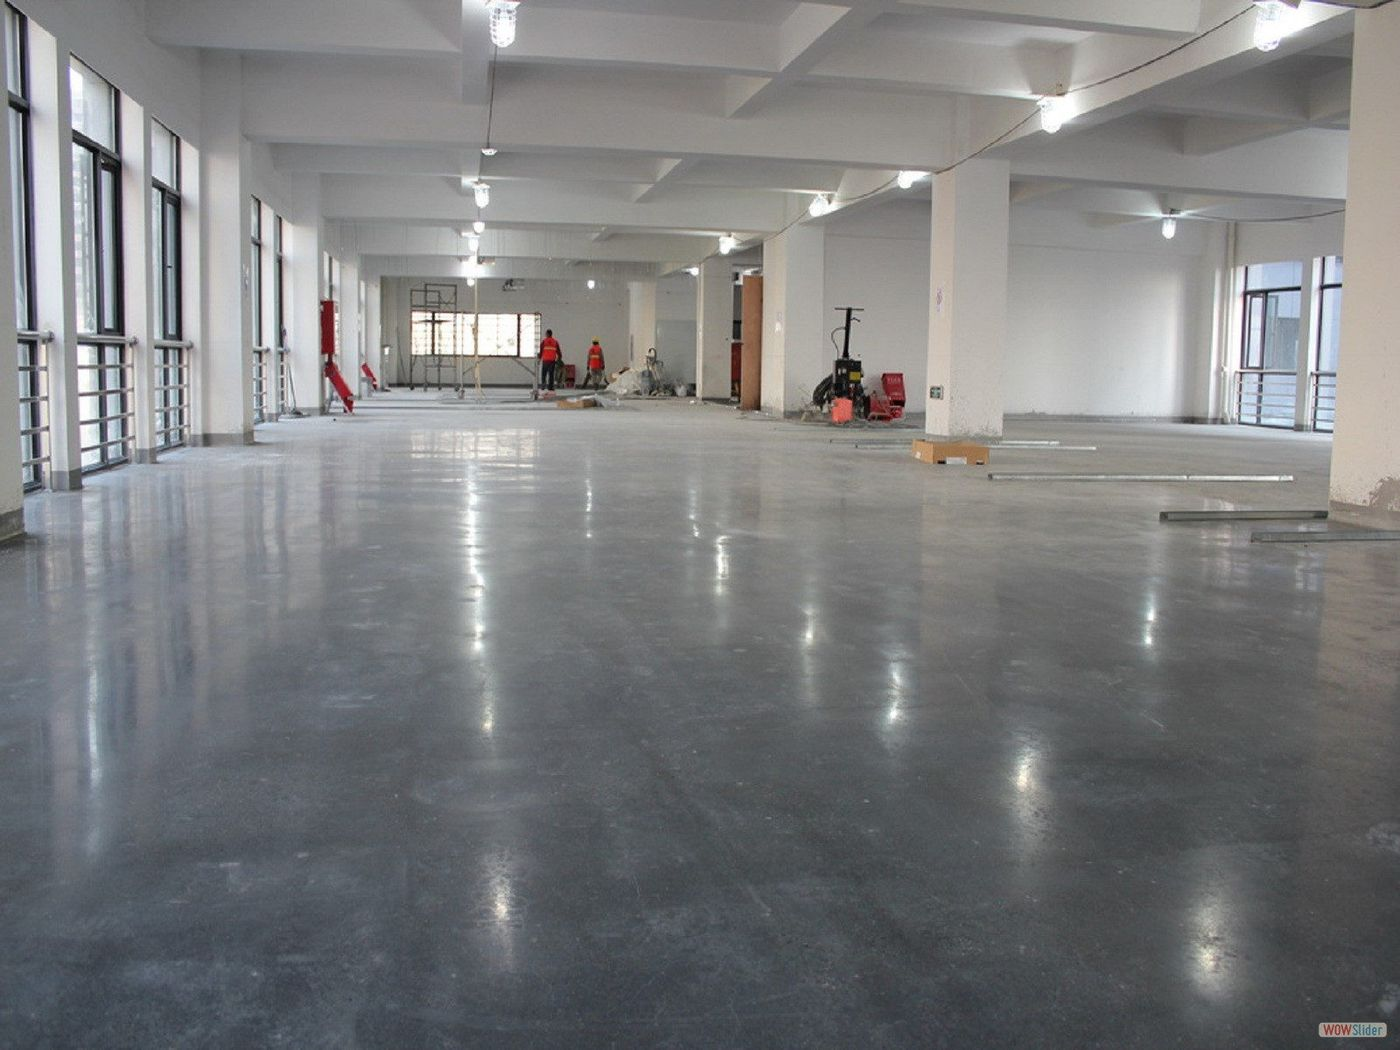
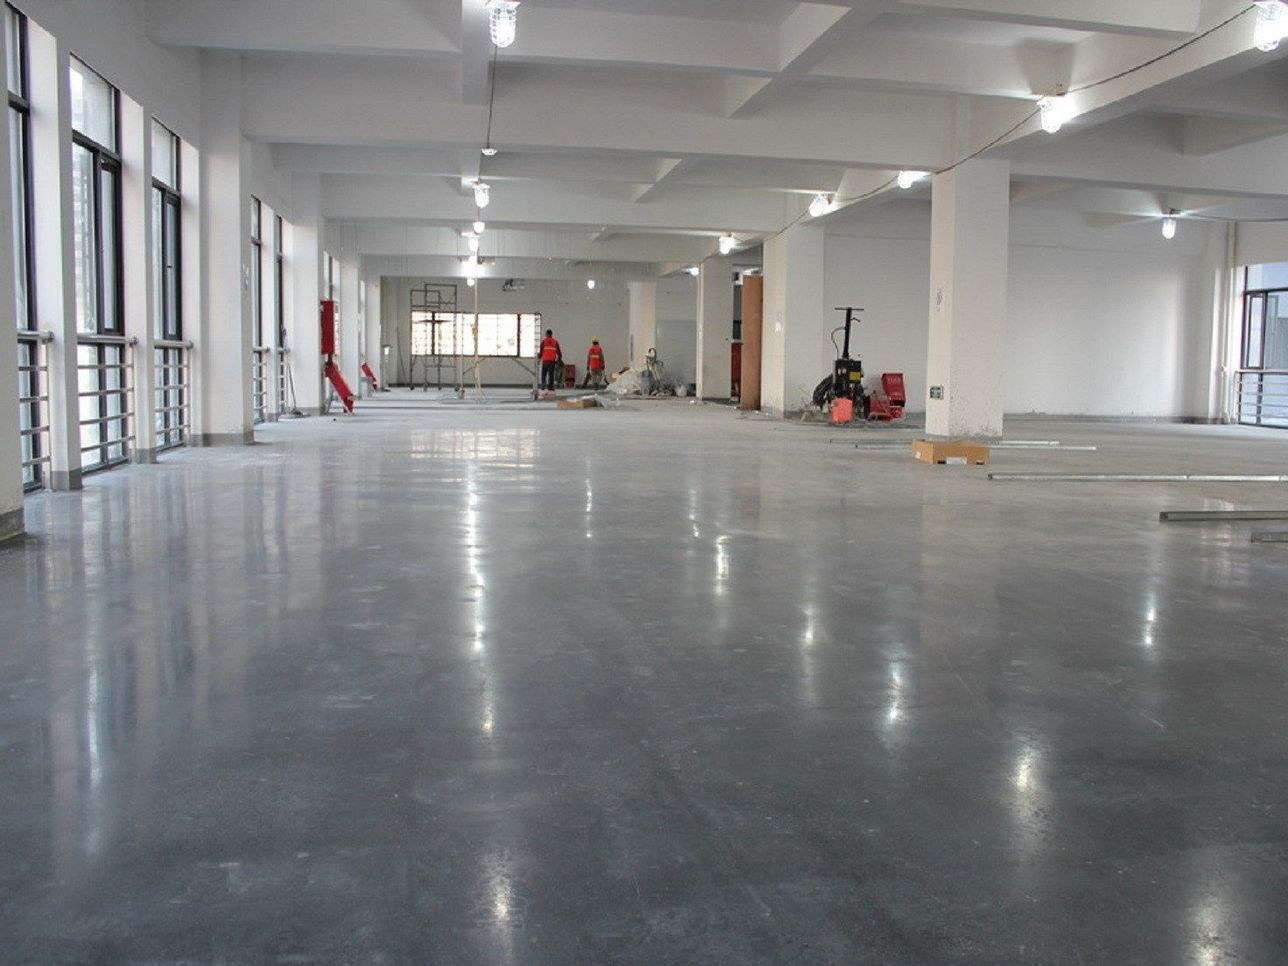
Nave: 17 arreglos de maquetacion tras la revision visual con scroll a 3 anchos
- pie de foto de la linea de hormigon anclado a su foto (relative, no static)
- tarjetas de sectores con los titulos a la misma altura; listas dobles en rejilla
- fila Resultado alineada con las fases; nota de sellos centrada
- barra de valores que ya no cuelga al partir linea; direccion del pie en bloque
- telefonos y fax al mismo paso de linea; nota de obligatorios al ancho libre
- movil: mas aire entre lineas apiladas, sin rayas duplicadas, botones de portada
  a todo el ancho, pie de la foto a sangre completo, titulos sin palabra huerfana
- img/nave-columnas.jpg recortada: llevaba una marca de agua ajena en la esquina

diff --git a/nave/index.html b/nave/index.html
@@ -250,6 +250,7 @@
   .hero .kicker { color: var(--nieve); }
   .hero .lead { margin-top: 1.4rem; color: var(--nieve); max-width: 52ch; }
   .hero-acciones { display: flex; flex-wrap: wrap; gap: .8rem; margin-top: 2rem; }
+  @media (max-width: 560px) { .hero-acciones .btn { flex: 1 1 auto; justify-content: center; } }
   .hero-nota { border-left: 3px solid var(--naranja); padding: .3rem 0 .3rem 1.2rem; max-width: 34ch; color: var(--nieve); }
   .hero-nota p { font-size: 1.05rem; line-height: 1.45; font-weight: 500; }
   .hero-nota .mono { color: var(--nieve); display: block; margin-top: .8rem; }
@@ -328,6 +329,7 @@
 
   /* ---------- Servicios ---------- */
   .svc-lista { display: grid; gap: clamp(3rem, 7vw, 6rem); }
+  @media (max-width: 959px) { .svc-lista { gap: 5rem; } } /* apilado: la foto va antes del rótulo, hace falta más aire entre líneas */
   .svc { display: grid; gap: 1.8rem; align-items: start; }
   .svc-media { margin: 0; position: relative; }
   .svc-media img { width: 100%; aspect-ratio: 16 / 10; object-fit: cover; }
@@ -338,7 +340,7 @@
     .svc:nth-child(even) { grid-template-columns: minmax(0, 5fr) minmax(0, 7fr); }
     .svc:nth-child(even) .svc-media { order: 2; }
     .svc-media { position: sticky; top: 100px; }
-    #hormigon .svc-media { position: static; } /* su fila de normas ocupa las dos columnas: la foto pegajosa se deslizaba encima */
+    #hormigon .svc-media { position: relative; top: auto; } /* su fila de normas ocupa las dos columnas: la foto pegajosa se deslizaba encima; relative (no static) para que el pie absoluto siga anclado a la foto */
     .svc-media figcaption { position: absolute; left: 0; bottom: 0; background: var(--fondo); padding: .6rem 1rem 0 0; max-width: 90%; }
   }
   .num { display: block; font-family: var(--f-mono); font-size: .82rem; font-weight: 500; letter-spacing: .1em; text-transform: uppercase; color: var(--acento-txt); margin-bottom: 1.2rem; }
@@ -353,10 +355,10 @@
   .sub-linea p:last-child { color: var(--txt); }
 
   /* ---------- Alta tolerancia de nivelación: las normas (ficha técnica a todo el ancho dentro de la línea de hormigón) ---------- */
-  .svc-normas { margin-top: .5rem; padding-top: 1.6rem; border-top: 1px solid var(--linea); }
-  @media (min-width: 960px) { .svc-normas { grid-column: 1 / -1; margin-top: 0; padding-top: 2.2rem; } }
+  .svc-normas { margin-top: 0; padding-top: 1.6rem; }
+  @media (min-width: 960px) { .svc-normas { grid-column: 1 / -1; padding-top: 2.2rem; border-top: 1px solid var(--linea); } }
   .svc-normas .etq { display: block; color: var(--acento-txt); margin-bottom: .6rem; }
-  .svc-normas h4 { font-family: var(--f-titular); font-stretch: 110%; font-weight: 600; font-size: clamp(1.2rem, 1.8vw, 1.5rem); line-height: 1.15; margin: 0 0 .6rem; }
+  .svc-normas h4 { font-family: var(--f-titular); font-stretch: 110%; font-weight: 600; font-size: clamp(1.2rem, 1.8vw, 1.5rem); line-height: 1.15; margin: 0 0 .6rem; text-wrap: balance; }
   .svc-normas > p { max-width: 62ch; }
   table.normas { width: 100%; border-collapse: collapse; margin-top: 1.4rem; border-top: 2px solid var(--txt); font-size: .95rem; }
   table.normas th, table.normas td { text-align: left; vertical-align: top; padding: .8rem 1.4rem .8rem 0; border-bottom: 1px solid var(--linea); }
@@ -379,6 +381,7 @@
 
   /* ---------- Proceso de obra (dentro de Servicios) ---------- */
   .proceso { margin-top: clamp(3.5rem, 8vw, 7rem); padding-top: clamp(2.5rem, 5vw, 4rem); border-top: 1px solid var(--linea); }
+  @media (max-width: 959px) { .proceso { border-top: 0; padding-top: 0; margin-top: clamp(3rem, 7vw, 6rem); } } /* a una columna la lista ya cierra con su raya */
   .proceso-cab { display: grid; gap: 2rem; align-items: center; margin-bottom: clamp(2rem, 4vw, 3rem); }
   @media (min-width: 1000px) { .proceso-cab { grid-template-columns: minmax(0, 5fr) minmax(0, 7fr); gap: clamp(2rem, 5vw, 5rem); } }
   .proceso-foto { margin: 0; }
@@ -396,7 +399,7 @@
   .paso h4 { font-family: var(--f-titular); font-stretch: 110%; font-weight: 600; font-size: clamp(1.2rem, 1.8vw, 1.5rem); line-height: 1.15; margin: 0 0 .6rem; }
   .paso p { color: var(--txt-2); font-size: .98rem; }
   .resultado { display: grid; gap: .6rem 2.5rem; padding-top: 1.6rem; border-top: 1px solid var(--linea); }
-  @media (min-width: 1000px) { .resultado { grid-template-columns: minmax(0, 1fr) minmax(0, 2fr); gap: 0 2.5rem; align-items: baseline; } }
+  @media (min-width: 1000px) { .resultado { grid-template-columns: repeat(3, minmax(0, 1fr)); gap: 0 2.5rem; align-items: baseline; } .resultado p { grid-column: 2 / -1; } }
   .resultado .etq { color: var(--acento-txt); display: block; margin-bottom: .5rem; }
   .resultado h4 { font-family: var(--f-titular); font-stretch: 110%; font-weight: 600; font-size: clamp(1.2rem, 1.8vw, 1.5rem); line-height: 1.15; margin: 0; }
   .resultado p { max-width: 70ch; }
@@ -434,7 +437,7 @@
   @media (min-width: 640px) { .sector-listas { grid-template-columns: minmax(0, 1fr) minmax(0, 2fr); gap: 2.5rem; } }
   .sector-grupo h3 { font-size: 1.1rem; margin-bottom: .8rem; padding-bottom: .6rem; border-bottom: 2px solid var(--txt); }
   .sector-grupo ul { list-style: none; margin: 0; padding: 0; }
-  @media (min-width: 640px) { .sector-grupo ul.dos { columns: 2; column-gap: 2rem; } }
+  @media (min-width: 640px) { .sector-grupo ul.dos { display: grid; grid-template-columns: repeat(2, minmax(0, 1fr)); column-gap: 2rem; } }
   .sector-grupo li { padding: .35rem 0; border-bottom: 1px solid var(--linea); break-inside: avoid; font-size: .98rem; }
   /* Tarjetas de foto con velo marino y nombre al pie */
   .sector-fotos { display: grid; grid-template-columns: repeat(2, minmax(0, 1fr)); gap: 1rem; margin-top: clamp(2.5rem, 5vw, 4rem); }
@@ -443,7 +446,8 @@
   .sector-fotos img { width: 100%; aspect-ratio: 3 / 4; object-fit: cover; }
   .sector-fotos figure::after { content: ""; position: absolute; inset: 0; pointer-events: none;
     background: linear-gradient(180deg, rgba(var(--marino-rgb), 0) 42%, rgba(var(--marino-rgb), .86) 74%, rgba(var(--marino-rgb), .97) 100%); }
-  .sector-fotos figcaption { position: absolute; left: 0; right: 0; bottom: 0; z-index: 1; display: block; padding: .9rem 1rem 1rem; color: var(--nieve); font-size: .72rem; }
+  .sector-fotos figcaption { position: absolute; left: 0; right: 0; bottom: 0; z-index: 1; display: grid; gap: 0; grid-template-rows: auto minmax(4.8em, auto); padding: .9rem 1rem 1rem; color: var(--nieve); font-size: .72rem; } /* la fila del subtítulo reserva 3 líneas (2 desde 900 px): los títulos de una misma fila quedan a la misma altura */
+  @media (min-width: 900px) { .sector-fotos figcaption { grid-template-rows: auto minmax(3.2em, auto); } }
   .sector-fotos figcaption b { display: block; margin-bottom: .25rem; color: var(--naranja-claro); font-family: var(--f-cuerpo); font-weight: 700; font-size: .95rem; letter-spacing: .01em; text-transform: none; }
 
   /* ---------- Obras ---------- */
@@ -452,6 +456,7 @@
   .sangre img { width: 100%; aspect-ratio: 4 / 3; object-fit: cover; object-position: center 65%; }
   @media (min-width: 760px) { .sangre img { aspect-ratio: 21 / 8; } }
   .sangre figcaption { position: absolute; left: 0; bottom: 0; background: var(--fondo); padding: .8rem 1.4rem .8rem var(--gut); max-width: 92%; }
+  @media (max-width: 759px) { .sangre figcaption { right: 0; max-width: none; } }
   .galeria { display: grid; grid-template-columns: repeat(2, minmax(0, 1fr)); gap: 1rem; }
   @media (min-width: 760px) { .galeria { grid-template-columns: repeat(6, minmax(0, 1fr)); gap: 1.2rem; } }
   .galeria figure { margin: 0; grid-column: span 1; min-width: 0; overflow: hidden; }
@@ -497,8 +502,10 @@
   @media (min-width: 960px) { .somos { grid-template-columns: minmax(0, 7fr) minmax(0, 5fr); gap: clamp(2rem, 6vw, 6rem); align-items: start; } }
   .somos-txt p { max-width: 64ch; }
   .cita-grande { font-family: var(--f-titular); font-stretch: 110%; font-weight: 500; font-size: clamp(1.3rem, 2.1vw, 1.9rem); line-height: 1.22; max-width: 26ch; margin: 2.2rem 0; padding-left: 1.3rem; border-left: 3px solid var(--naranja); }
-  .valores-linea { margin: 2rem 0 0; padding-top: 1.3rem; border-top: 2px solid var(--txt); font-family: var(--f-titular); font-stretch: 110%; font-weight: 600; font-size: 1.05rem; line-height: 1.7; }
-  .valores-linea i { font-style: normal; color: var(--acento-txt); padding: 0 .35em; }
+  .valores-linea { margin: 2rem 0 0; padding-top: 1.3rem; border-top: 2px solid var(--txt); font-family: var(--f-titular); font-stretch: 110%; font-weight: 600; font-size: 1.05rem; line-height: 1.7; display: flex; flex-wrap: wrap; column-gap: 1.2em; overflow: hidden; }
+  /* La barra va delante de cada valor; la del primero de cada fila queda fuera del borde izquierdo y la recorta overflow: hidden */
+  .valores-linea span:not(.oculto-visual) { margin-left: -1.2em; }
+  .valores-linea span:not(.oculto-visual)::before { content: "/"; content: "/" / ""; display: inline-block; width: 1.2em; text-align: center; color: var(--acento-txt); }
   .valores-nota { margin-top: .6rem; font-size: .95rem; color: var(--txt-2); }
   .valores-nota a { color: var(--acento-txt); font-weight: 600; }
   /* Foto recortada con el arco de la marca: borde superior en arco asimétrico + trazo fino naranja */
@@ -533,7 +540,7 @@
   .sello { background: var(--papel); border: 1px solid var(--linea); padding: .9rem 1.2rem; display: flex; align-items: center; }
   .sello img.sobre-blanco { mix-blend-mode: multiply; }
   .sello img { max-height: 92px; width: auto; }
-  .sellos-nota { flex: 0 0 100%; color: var(--txt-2); font-size: .88rem; max-width: 70ch; }
+  .sellos-nota { flex: 0 0 100%; align-self: center; color: var(--txt-2); font-size: .88rem; max-width: 70ch; }
   /* El sello ICDQ abre el certificado (PDF) en pestaña nueva: realce sutil del marco y de la imagen */
   .sello { transition: border-color .3s, box-shadow .3s; }
   .sello-enlace { display: flex; align-items: center; text-decoration: none; }
@@ -573,8 +580,9 @@
   .datos li { display: grid; grid-template-columns: 5.5rem minmax(0, 1fr); gap: 1rem; padding: .9rem 0; border-bottom: 1px solid var(--linea); }
   .datos .etq { color: var(--txt-2); padding-top: .3rem; font-size: .72rem; }
   .datos a { text-decoration: none; font-weight: 600; overflow-wrap: anywhere; display: inline-block; padding: .15rem 0; }
+  .datos a.mono { padding: 0; line-height: 1.7rem; vertical-align: top; } /* mismo paso de línea que el cuerpo */
   .datos a:hover { color: var(--acento-txt); }
-  .datos small { color: var(--txt-2); display: block; font-size: .85rem; }
+  .datos small { color: var(--txt-2); display: block; font-size: .85rem; line-height: 1.7rem; }
   .form { background: var(--sup); padding: clamp(1.4rem, 3vw, 2.5rem); border-top: 3px solid var(--naranja); }
   .form-grid { display: grid; gap: 1.1rem; }
   @media (min-width: 640px) { .form-grid { grid-template-columns: 1fr 1fr; } .form-grid .ancho { grid-column: 1 / -1; } }
@@ -590,7 +598,7 @@
   .error { margin: .4rem 0 0; font-size: .88rem; font-weight: 600; color: var(--error); }
   .error:empty { display: none; }
   .info-basica { margin-top: 1.4rem; padding-top: 1rem; border-top: 1px solid var(--linea); font-size: .88rem; line-height: 1.45; color: var(--txt-2); }
-  .info-basica .ib-t { font-family: var(--f-mono); font-size: .72rem; letter-spacing: .1em; text-transform: uppercase; color: var(--acento-txt); margin: 0 0 .5rem; }
+  .info-basica .ib-t { font-family: var(--f-mono); font-size: .72rem; letter-spacing: .1em; text-transform: uppercase; color: var(--acento-txt); margin: 0 0 .5rem; text-wrap: balance; }
   .info-basica dl { margin: 0; display: grid; gap: .35rem; }
   .info-basica dl div { display: grid; grid-template-columns: 7.4rem minmax(0, 1fr); gap: .6rem; }
   .info-basica dt { font-weight: 600; color: var(--txt); }
@@ -603,7 +611,7 @@
   .consent a { color: var(--acento-txt); font-weight: 600; }
   .campo textarea { min-height: 150px; resize: vertical; }
   .form-pie { display: flex; flex-wrap: wrap; gap: 1rem; align-items: center; justify-content: space-between; margin-top: 1.4rem; }
-  .form-pie small { color: var(--txt-2); max-width: 40ch; }
+  .form-pie small { color: var(--txt-2); flex: 1 1 20rem; }
   .form-ok { margin-top: 1.4rem; padding: 1rem 1.2rem; background: var(--marino); color: var(--nieve); }
   .form-ok:empty { margin: 0; padding: 0; }
   .form-ok.form-error { border-left: 3px solid var(--naranja); }
@@ -623,7 +631,7 @@
   .pie ul { list-style: none; margin: 0; padding: 0; }
   .pie li { font-size: .95rem; }
   .pie li, .pie-legal a { padding: .3rem 0; }
-  .pie li a, .pie-legal a { display: inline-block; padding-block: .15rem; }
+  .pie li a, .pie li .pie-dir, .pie-legal a { display: inline-block; padding-block: .15rem; }
   .pie a { text-decoration: none; }
   .pie a:hover { color: var(--nieve); }
   .pie-bajo { margin-top: 2.5rem; padding-top: 1.2rem; border-top: 1px solid var(--marino-3); display: flex; flex-wrap: wrap; gap: .6rem 2rem; justify-content: space-between; align-items: center; font-size: .85rem; }
@@ -755,7 +763,7 @@
       </div>
       <div class="dato">
         <a class="cifra" href="../docs/certificado-iso-14001-twinsol-decor.pdf" target="_blank" rel="noopener" title="Abrir el certificado UNE-EN ISO 14001:2015 en una pestaña nueva (PDF, 1,2 MB)" aria-label="Abrir el certificado UNE-EN ISO 14001:2015 en una pestaña nueva (PDF, 1,2 MB)">ISO 14001</a>
-        <p>gestión ambiental certificada por ICDQ · n.º 1455/26 · vigente hasta 2029</p>
+        <p>gestión ambiental certificada por ICDQ&nbsp;· n.º&nbsp;1455/26&nbsp;· vigente hasta 2029</p>
       </div>
     </div>
   </section>
@@ -1122,7 +1130,7 @@
         <p>Bienvenidos a TWINSOL DECOR, especialista en construcción de pavimentos de alta tolerancia. Contamos con <strong>más de 30 años de experiencia</strong> avalados por el grupo pionero y referente europeo en la producción de pavimentos sin juntas y alta planimetría, con resultados reconocidos en el ámbito nacional e internacional.</p>
         <p>Construimos pavimentos de calidad, <strong>optimizando sus prestaciones y minimizando los costes de mantenimiento</strong> a través de la innovación en el diseño, la mejora continua de procesos y equipos específicamente diseñados, entregando un producto personalizado y adaptado a cada necesidad.</p>
         <p>Nuestro equipo asiste a proyectos de pavimentación industrial y comercial en España, Centroeuropa, Sudamérica y Oriente Medio.</p>
-        <p class="valores-linea"><span class="oculto-visual">Valores: </span>Integridad<i aria-hidden="true">/</i> Experiencia<i aria-hidden="true">/</i> Excelencia<i aria-hidden="true">/</i> Innovación<i aria-hidden="true">/</i> Trabajo en equipo</p>
+        <p class="valores-linea"><span class="oculto-visual">Valores: </span><span>Integridad</span> <span>Experiencia</span> <span>Excelencia</span> <span>Innovación</span> <span>Trabajo en equipo</span></p>
         <p class="valores-nota">Con compromiso con la salud y la seguridad y preocupación por el medio ambiente: véase <a href="#calidad">Calidad, medio ambiente y seguridad laboral</a>.</p>
       </div>
       <figure class="arco-foto">
@@ -1296,8 +1304,7 @@
       <div>
         <h2 class="pie-tit">Oficina central</h2>
         <ul role="list">
-          <li>Calle Alcolea n.º 39</li>
-          <li>19174 Torrejón del Rey (Guadalajara)</li>
+          <li><span class="pie-dir">Calle Alcolea n.º 39<br>19174 Torrejón del Rey (Guadalajara)</span></li>
           <li><a href="mailto:info@twinsoldecor.com">info@twinsoldecor.com</a></li>
           <li><a href="tel:+34648710497">+34 648 710 497</a> · <a href="tel:+34616052200">+34 616 052 200</a></li>
         </ul>
